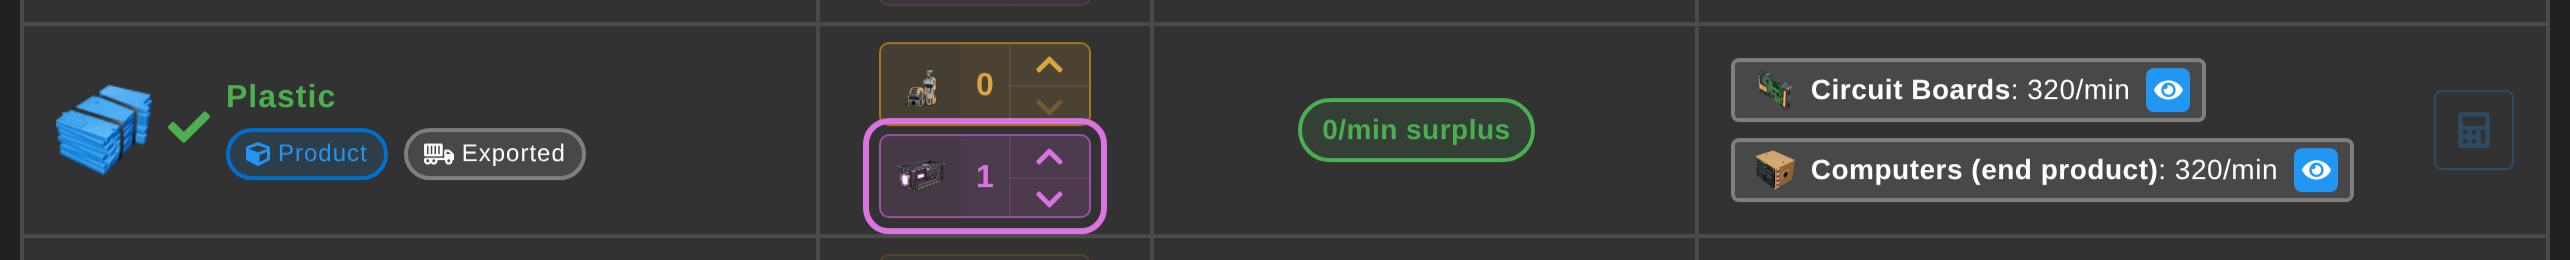
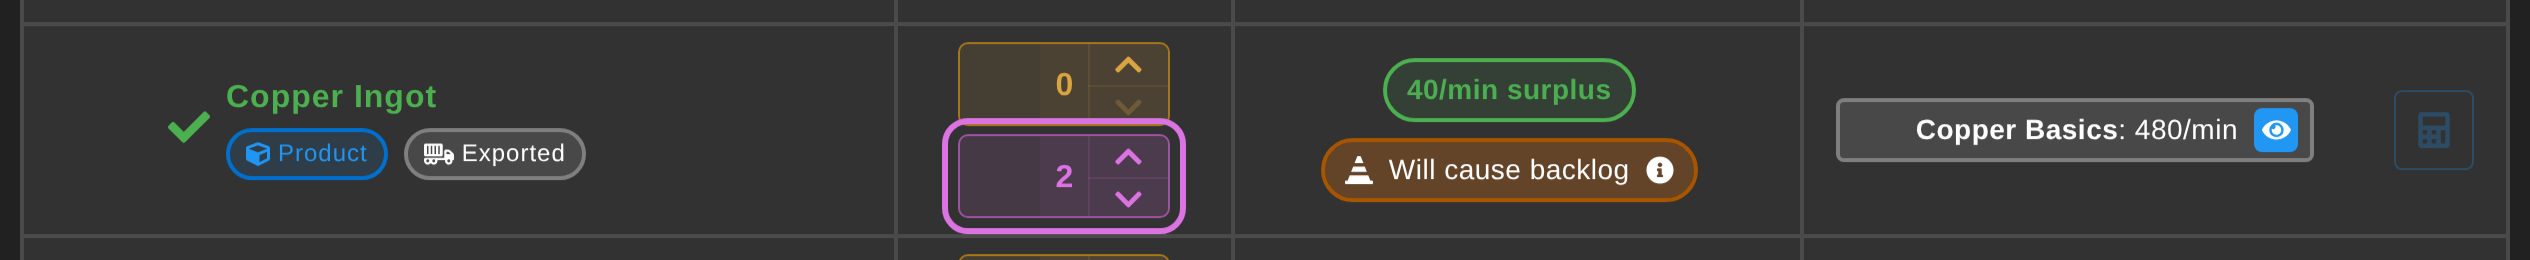
feat(web): point at the Depot control on the right row, and show where plan files live
The Depot ring was landing on the first row with any Uploaders, which was
Plastic with one. It now picks the row with the most, which is the Copper
Ingot row with two, as intended.

Slide 7's export section gains the sidebar shot beside the dialog, with the
Export plan and Import plan buttons ringed. The foot of the sidebar is the
only place they live, so the slide now says where to look.

Claude-Session: https://claude.ai/code/session_015PTSRZn8YB7LHuoRHXo3Tt

diff --git a/web/src/components/SplashV7.vue b/web/src/components/SplashV7.vue
@@ -429,13 +429,26 @@
           <v-divider class="my-4" />
 
           <h3 class="section-heading mb-2">Plans can be exported and imported as files or the clipboard</h3>
-          <v-img
-            v-if="hasExportShot"
-            alt="The Export plan dialog, offering a file or the clipboard"
-            class="mb-3 mx-auto rounded"
-            max-width="760"
-            :src="shots.exportPlan"
-          />
+          <v-row class="mb-3" no-gutters>
+            <v-col class="pr-md-3" cols="12" md="7">
+              <v-img
+                v-if="hasExportShot"
+                alt="The Export plan dialog, offering a file or the clipboard"
+                class="rounded framed"
+                :src="shots.exportPlan"
+              />
+            </v-col>
+            <!-- Where the buttons are, because right now the sidebar is the only place they live. -->
+            <v-col class="pl-md-3 d-flex flex-column justify-center" cols="12" md="5">
+              <p class="mb-2"><b>Both sit at the foot of the sidebar:</b></p>
+              <v-img
+                v-if="hasPlanButtonsShot"
+                alt="The Export plan and Import plan buttons at the foot of the sidebar, highlighted"
+                class="rounded"
+                :src="shots.planButtons"
+              />
+            </v-col>
+          </v-row>
           <p class="mb-4">
             <b>Copy plan is now Export plan</b>, and asks where the plan should go: save it as a
             JSON file, or copy it to the clipboard. <b>Paste plan is now Import plan</b>, and asks
@@ -531,6 +544,7 @@
     depotAssign: '/assets/changelog/beta7/depot-assign.png',
     search: '/assets/changelog/beta7/search.png',
     exportPlan: '/assets/changelog/beta7/export-plan.png',
+    planButtons: '/assets/changelog/beta7/sidebar-plan-buttons.png',
     customBuildings: '/assets/changelog/beta7/custom-buildings.png',
     materialCosts: '/assets/changelog/beta7/material-costs.png',
     checklist: '/assets/changelog/beta7/checklist.png',
@@ -552,6 +566,7 @@
   const hasDepotAssignShot = true
   const hasSearchShot = true
   const hasExportShot = true
+  const hasPlanButtonsShot = true
   const hasCustomBuildingsShot = true
   const hasMaterialCostsShot = true
   const hasChecklistShot = true
